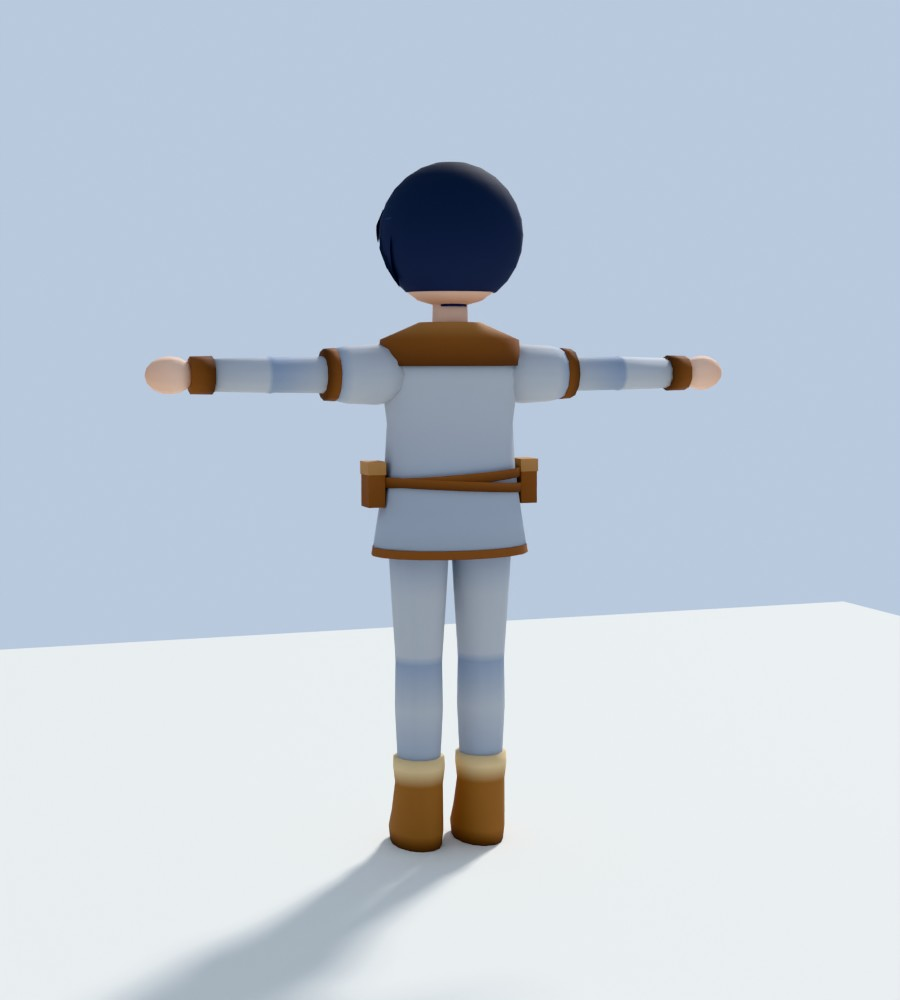
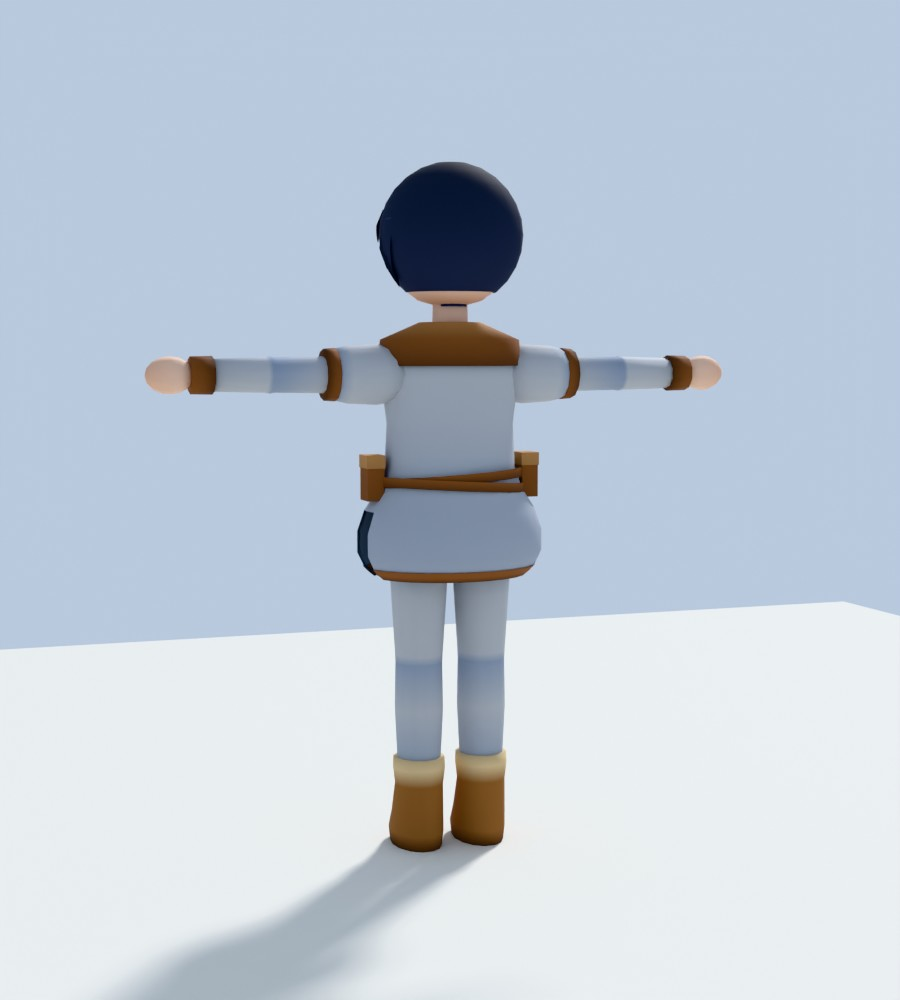
로타 웃옷 아래를 설정화처럼: 허리띠 밑이 둥글게 부풀었다 밑단에서 말려 들어가는 모양, 옆트임, 앞판 끈 두 줄
Claude-Session: https://claude.ai/code/session_013o2MuY9sDztt8LyjMZEytH

Changed region(s): [[0.3733, 0.434, 0.6222, 0.589]]

diff --git a/tools/character/rota.py b/tools/character/rota.py
@@ -38,7 +38,7 @@ def ring_pts(cx, cy, z, rx, ry, n, a0=0.0):
     return [(cx + math.cos(a0 + i / n * math.tau) * rx, cy + math.sin(a0 + i / n * math.tau) * ry, z) for i in range(n)]
 
 
-def lathe(m, rings, n, M=None, cap0=True, cap1=True, keep=None):
+def lathe(m, rings, n, M=None, cap0=True, cap1=True, keep=None, inward=False):
     """rings: (z, rx, ry, col[, cx, cy]) from bottom to top. Smooth shaded, outward normals.
     keep(face_centre) -> bool can drop faces (used to open the face in the hair)."""
     V, C, F = [], [], []
@@ -55,7 +55,7 @@ def lathe(m, rings, n, M=None, cap0=True, cap1=True, keep=None):
                 c = sum((Vector(V[q]) for q in f), Vector()) / 4
                 if not keep(c):
                     continue
-            F.append(f)
+            F.append(f[::-1] if inward else f)
     if cap0 and rings[0][1] > 1e-4:
         F.append(tuple(range(n))[::-1])
     if cap1 and rings[-1][1] > 1e-4:
@@ -77,8 +77,10 @@ def ellipsoid_rings(cz, rx, ry, rz, col_top, col_bot, steps=10, cy=0.0, bottom_p
 
 # ---------- body measurements ----------
 HEAD_C = 1.415                     # centre of the skull
-TUNIC = [  # z, rx, ry : the tunic's outline from hem to neck
-    (0.70, 0.188, 0.135), (0.80, 0.172, 0.122), (0.90, 0.158, 0.112), (1.00, 0.152, 0.106),
+TUNIC = [  # z, rx, ry : the tunic's outline from hem to neck. Below the belt it swells out round and tucks back in
+           # at the hem, like the underside of a door knob
+    (0.645, 0.178, 0.135), (0.665, 0.205, 0.158), (0.70, 0.222, 0.17), (0.75, 0.222, 0.168), (0.80, 0.205, 0.152),
+    (0.845, 0.175, 0.128), (0.90, 0.157, 0.112), (1.00, 0.152, 0.106),
     (1.10, 0.165, 0.110), (1.165, 0.168, 0.104), (1.20, 0.075, 0.066)]
 
 
@@ -159,25 +161,30 @@ def build():
         shell(a0, a0 + 20, 8, lambda t: 1.312 + 0.09 * abs(t - 0.5) * 2, z_top=1.47)
 
     # ---------- tunic: white, shaded pale blue toward the hem ----------
+    def slit(c):                                       # the skirt is split up both sides, below the belt
+        return not (c.z < 0.80 and abs(c.y) < 0.03)
     rings = []
     for z, rx, ry in TUNIC:
-        t = (z - 0.70) / 0.5
-        rings.append((z, rx, ry, mix(WHITE_SH, WHITE, min(1.0, 0.25 + t))))
-    lathe(cloth, rings, 20)
-    # hem band in brown, like the drawing's edging
-    lathe(leather, [(0.695, 0.19, 0.137, BROWN), (0.715, 0.187, 0.134, BROWN)], 20, cap0=False, cap1=False)
+        t = (z - 0.645) / 0.55
+        rings.append((z, rx, ry, mix(WHITE_SH, WHITE, min(1.0, 0.2 + t))))
+    lathe(cloth, rings, 24, cap0=False, keep=slit)
+    lathe(cloth, [(z, rx - 0.006, ry - 0.006, shade(WHITE_SH, 0.86)) for z, rx, ry in TUNIC if z <= 0.85], 24,
+          cap0=False, cap1=False, keep=slit, inward=True)                       # the lining, seen from below
+    # brown edging along the hem
+    lathe(leather, [(0.643, 0.181, 0.138, BROWN_D), (0.655, 0.196, 0.15, BROWN), (0.668, 0.209, 0.161, BROWN)], 24, cap0=False, cap1=False, keep=slit)
+    lathe(leather, [(0.643, 0.173, 0.13, BROWN_D), (0.668, 0.2, 0.152, BROWN)], 24, cap0=False, cap1=False, keep=slit, inward=True)
 
     # trim lines and cross stitches down the front
     for s in (-1, 1):
         x = s * 0.098
-        zs = [0.71 + k * 0.02 for k in range(18)]
+        zs = [0.665 + k * 0.02 for k in range(20)]
         for z0, z1 in zip(zs, zs[1:]):
             if z1 > 1.05:
                 break
             y0, y1 = front_y(x, z0, 0.003), front_y(x, z1, 0.003)
             cloth.quad((x - s * 0.006, y0, z0), (x + s * 0.006, y0, z0), (x + s * 0.006, y1, z1), (x - s * 0.006, y1, z1), BROWN) if s < 0 else \
                 cloth.quad((x - 0.006, y0, z0), (x + 0.006, y0, z0), (x + 0.006, y1, z1), (x - 0.006, y1, z1), BROWN)
-        for z in (1.035, 0.985, 0.935, 0.795, 0.745):
+        for z in (1.045, 1.0, 0.955, 0.91):
             xc = s * 0.068
             for d in (1, -1):
                 a = (xc - 0.014, front_y(xc - 0.014, z - d * 0.014, 0.005), z - d * 0.014)
@@ -186,6 +193,13 @@ def build():
                 nrm = Vector((0, -1, 0))
                 side = u.cross(nrm).normalized() * 0.0045
                 cloth.quad(Vector(a) - side, Vector(b) - side, Vector(b) + side, Vector(a) + side, BROWN_D)
+
+    for s in (-1, 1):                                  # straps hanging from the belt, a loop at each end
+        x = s * 0.052
+        for z0, z1 in zip([0.86 - k * 0.02 for k in range(6)], [0.84 - k * 0.02 for k in range(6)]):
+            y0, y1 = front_y(x, z0, 0.007), front_y(x, z1, 0.007)
+            leather.quad((x - 0.008, y1, z1), (x + 0.008, y1, z1), (x + 0.008, y0, z0), (x - 0.008, y0, z0), BROWN)
+        leather.box((0.026, 0.012, 0.022), BROWN_D, M=T(x, front_y(x, 0.74, 0.012), 0.732))
 
     # ---------- the brown hood lying around the neck, dipping to a V ----------
     n = 28
@@ -217,7 +231,7 @@ def build():
         lathe(leather, [(-0.011, rx + 0.009, ry + 0.009, BROWN_D), (0.011, rx + 0.009, ry + 0.009, BROWN)], 20,
               M=T(0, 0, z) @ R("X", 1.5) @ R("Y", tilt), cap0=False, cap1=False)
     for s in (-1, 1):
-        M = T(s * 0.188, 0.0, 0.81)
+        M = T(s * 0.19, 0.0, 0.825)
         leather.box((0.04, 0.06, 0.095), BROWN, M=M, grad=0.8)
         leather.box((0.044, 0.064, 0.03), BROWN_L, M=M @ T(0, 0, 0.075), grad=0.9)
 
